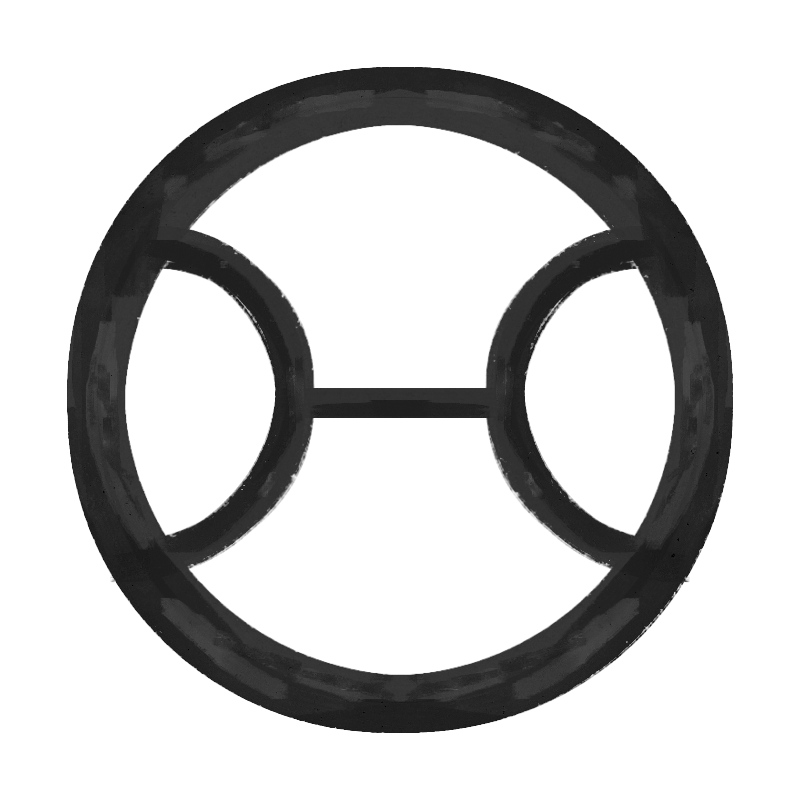
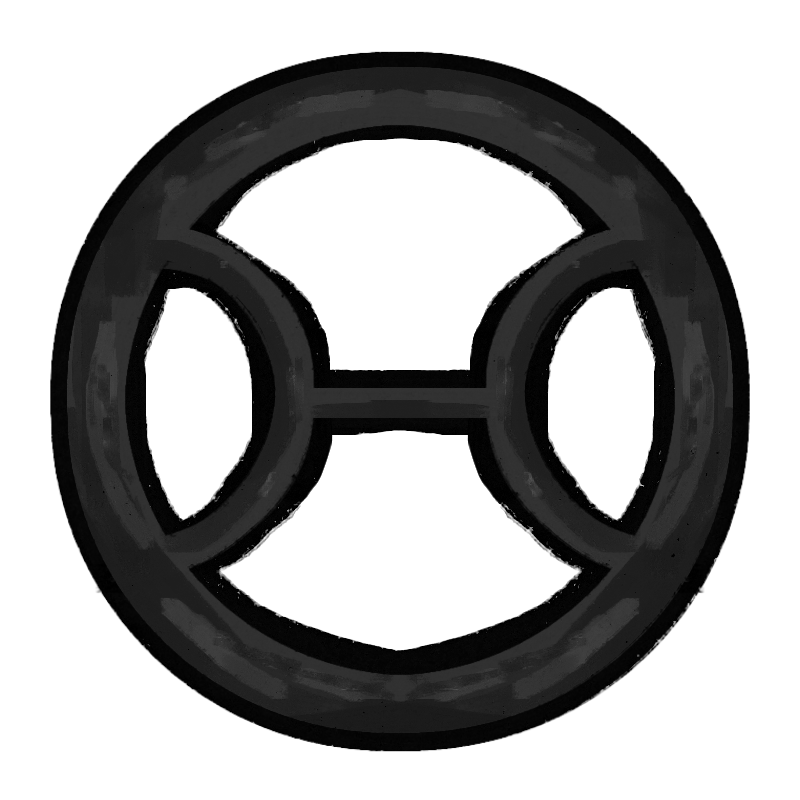
Adiciona imagem de Vidrilhos na introducao do Conclave

Changed region(s): [[0.1562, 0.1562, 0.8438, 0.8438], [0.0625, 0.0625, 0.9375, 0.9375]]

diff --git a/conclave.html b/conclave.html
@@ -1,4 +1,4 @@
-<!DOCTYPE html>
+<!DOCTYPE html>
 <html lang="pt-BR">
 <head>
   <meta charset="UTF-8">
@@ -97,8 +97,11 @@
           <h2>O Conclave</h2>
         </div>
         <div class="race-card" style="max-width: 800px; margin: 0 auto var(--space-2xl);">
-          <div class="race-card-body">
-            <p style="font-size: 0.9rem; color: var(--text-secondary); line-height: 1.8;">O mundo é movido por trocas que ninguém vê. Nas sombras das capitais ou no silêncio das ruínas, os Mercantes do Conclave operam uma economia invisível. Para a maioria, eles são apenas uma superstição sobre moedas que somem e itens que aparecem. Para você, eles são o único apoio, as vezes.</p>
+          <div class="race-card-body" style="text-align: center;">
+            <div style="margin-bottom: var(--space-md); display: flex; justify-content: center;">
+              <img src="assets/vidrilhos.png" alt="Vidrilhos - Conclave" style="width: 140px; height: 140px; object-fit: contain; filter: drop-shadow(0 0 16px rgba(255, 255, 255, 0.08));">
+            </div>
+            <p style="font-size: 0.9rem; color: var(--text-secondary); line-height: 1.8; text-align: left;">O mundo é movido por trocas que ninguém vê. Nas sombras das capitais ou no silêncio das ruínas, os Mercantes do Conclave operam uma economia invisível. Para a maioria, eles são apenas uma superstição sobre moedas que somem e itens que aparecem. Para você, eles são o único apoio, as vezes.</p>
           </div>
         </div>
       </section>
